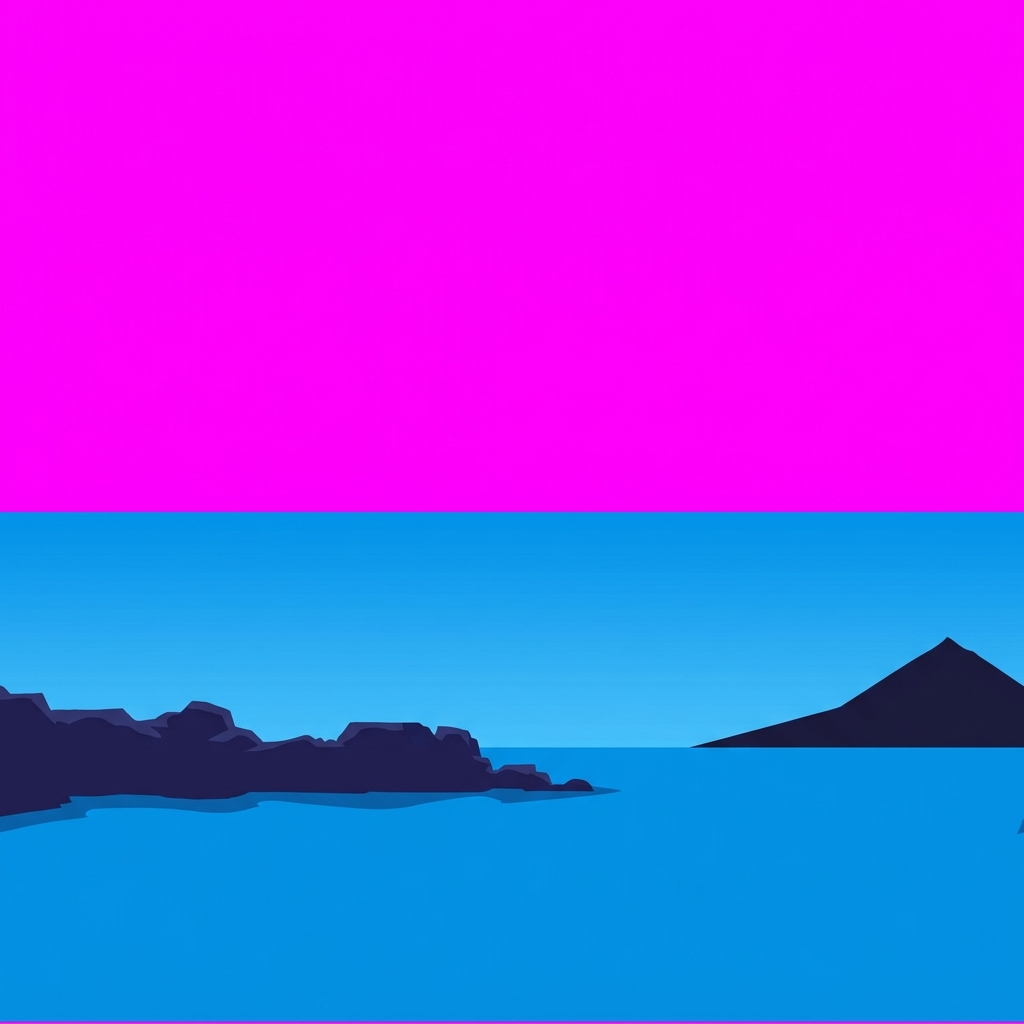
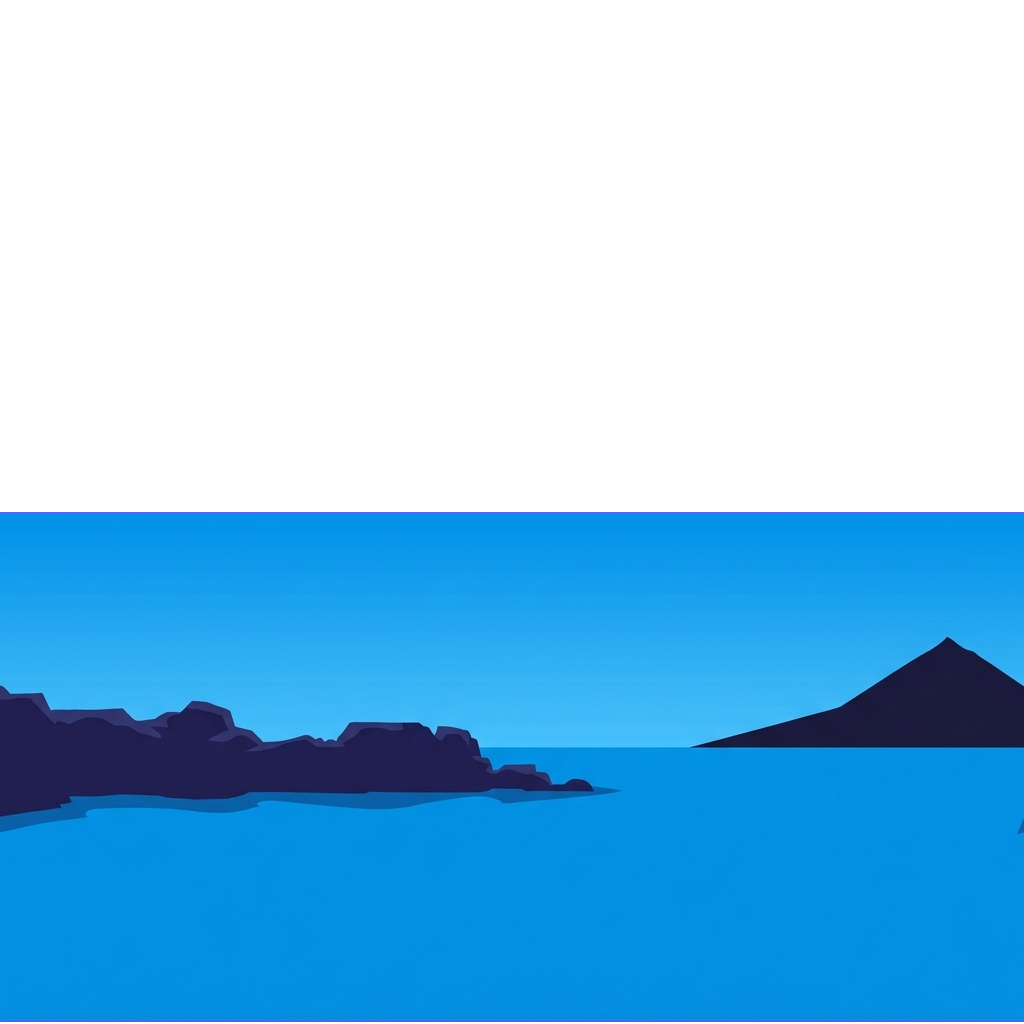
feat: complete Las Canteras parallax phase and reports

diff --git a/minigames/arcade/canarias_run/assets/parallax/canteras/parallax_report.md b/minigames/arcade/canarias_run/assets/parallax/canteras/parallax_report.md
@@ -1,0 +1,17 @@
+# Parallax Report: Canarias Run (Canteras Phase)
+
+Este informe detalla la configuración de las capas de fondo para la fase de Las Canteras.
+
+## Especificaciones de Capas
+
+| Capa | Archivo | Contenido | Velocidad Sugerida | Alineación |
+| :--- | :--- | :--- | :--- | :--- |
+| 4 | `layer4_far.png` | Cielo de atardecer (Naranjas/Pinks). | 0.05x | Fondo Total |
+| 3 | `layer3_mid.png` | Horizonte con El Teide y La Barra. | 0.2x | Fondo (Base inferior) |
+| 2 | `layer2_foreground.png` | Paseo de Las Canteras y palmeras. | 0.5x | Base (Suelo) |
+| 1 | `layer1_detail.png` | Sombrillas y postes de ducha. | 1.5x | Base (Suelo) |
+
+## Notas Técnicas
+- **Atmósfera**: Atardecer cálido para el clímax final del juego.
+- **Seamless**: Tiling horizontal infinito garantizado.
+- **Transparencia**: Canal Alfa aplicado a las capas 1, 2 y 3.